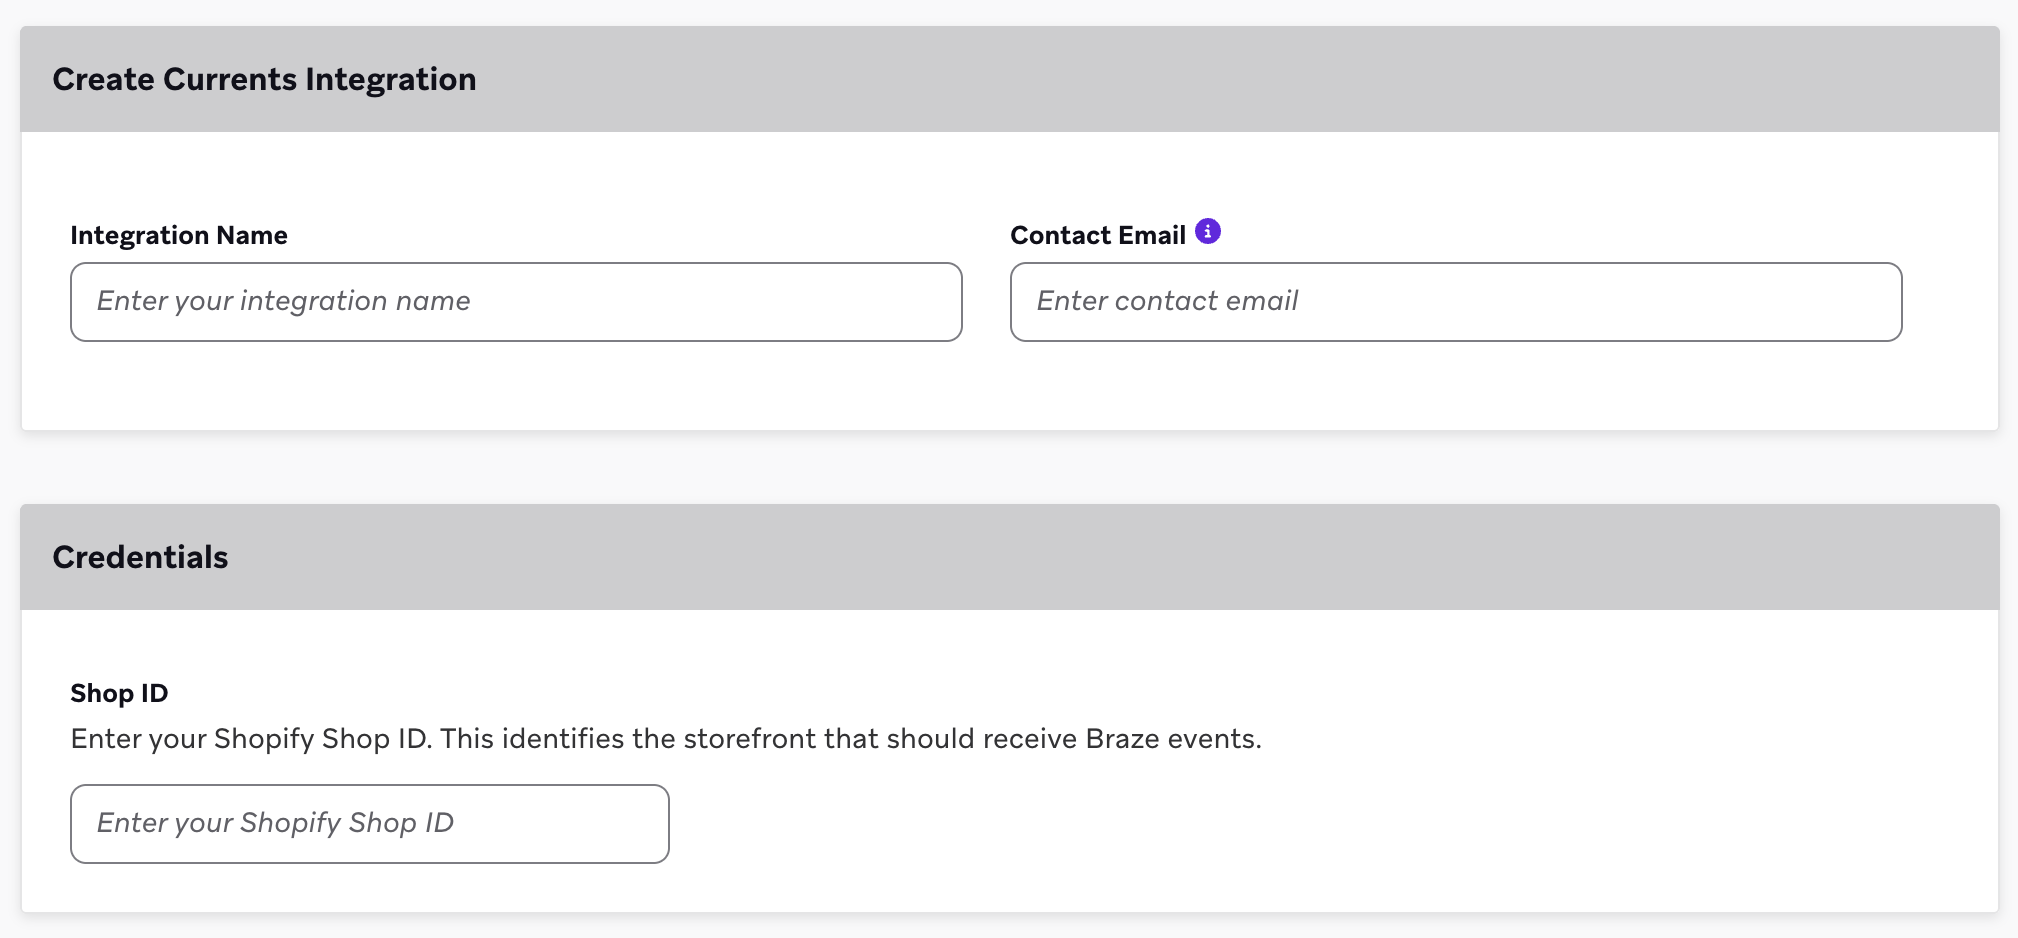
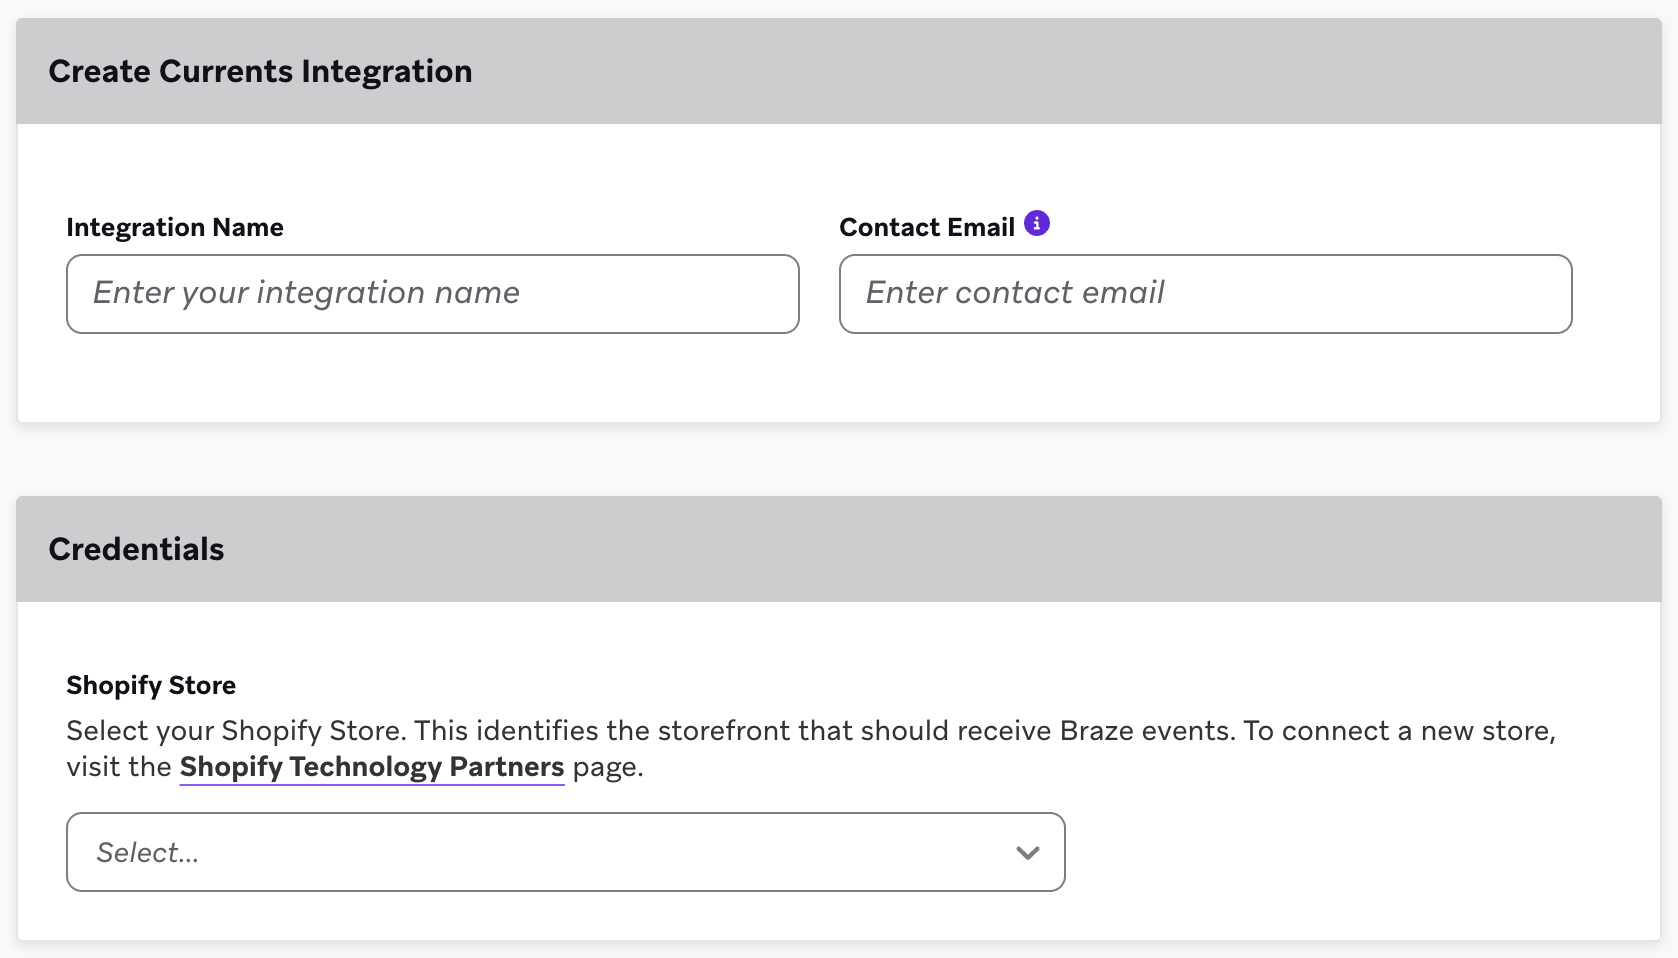
Update Shopify Currents credentials instructions to reflect the new streamlined flow

diff --git a/_docs/_partners/ecommerce/shopify/shopify_for_currents.md b/_docs/_partners/ecommerce/shopify/shopify_for_currents.md
@@ -30,20 +30,12 @@ The Braze integration with Shopify provides a powerful solution for eCommerce bu
 
 If you have not already, follow [the instructions on this page]({{site.baseurl}}/shopify_standard_integration/) to set up at least one Shopify store with Braze.
 
-### Step 2: Obtain your Shop ID
-
-1. In your store admin page ([https://admin.shopify.com/](https://admin.shopify.com/)), go to **Settings** > **Customer accounts**.
-2. Under the **URL** section of the page, there should be a URL in the following format:
-    ```
-    https://shopify.com/<ID>/account
-    ```
-3. Make note of the `<ID>` portion of the URL. This is your Shop ID.
-
-### Step 3: Create Braze Current
+### Step 2: Create Braze Current
 
 1. In Braze, navigate to **Partner Integrations** > **Currents** > **+ Create New Current** > **Shopify Export**.
-2. Provide an integration name, contact email, and the Shop ID that you previously recorded.
-3. Next, select the events you want to track; a list of available events is provided.
-4. Lastly, click **Launch Current**
+2. Provide an integration name and contact email.
+3. In the **Credentials** section, select the Shopify store that you previously created in **Step 1**.
+4. Next, select the events you want to track; a list of available events is provided.
+5. Lastly, click **Launch Current**
 
-![The Braze Shopify Currents page. This page includes fields for integration name, contact email, and Shop ID.]({% image_buster /assets/img/Shopify/shopify_currents.png %})
+![The Braze Shopify Currents page. This page includes fields for integration name, contact email, and Shopify Store.]({% image_buster /assets/img/Shopify/shopify_currents.png %})
